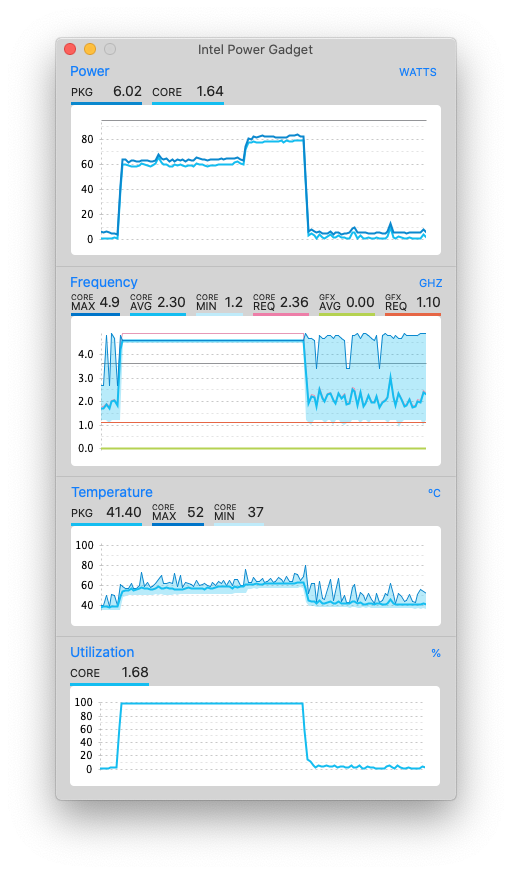
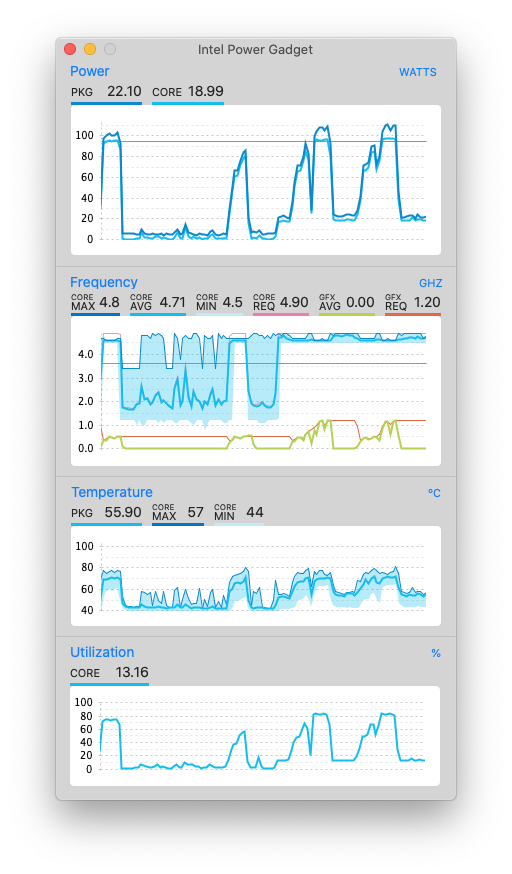
Relase 1.2.0

diff --git a/README.md b/README.md
@@ -15,6 +15,13 @@ Verified working with macOS version 10.15.5 (19F101) Catalina
 
 ## Updates log
 
+**Wakeup issues was still not fixed and resolved, wakened some applications freezed. such as Videopro/Hackintool/Safari play video/etc.**
+
+
+Date 2020-06-10 / Version 1.2.0
+
+Gigabyte GC-TITAN RIDGE supported, pls ref how to hard-flash BIOS.
+
 Date 2020-06-03 / Version 1.1.0
 
 Fixed wakeup issues some applications was freeze.
@@ -117,7 +124,7 @@ Based on F9g version.
 	- IO Ports
 		- Initial Display Output → **PCIe 1 Slot**
 		- Internal Graphics → **Enabled**
-		- DVMT Pre-Allocated → **64M**
+		- DVMT Pre-Allocated → **128M**
 		- DVMT Total-Gfx Mem → **256M**
 		- Aperture Size → **256M**
 		- Audio Controller → **Enabled**
@@ -184,6 +191,7 @@ Please [report and track](https://github.com/BenjaminX/Hackintosh-Gigabyte-Z390M
 ## Reference
 * [https://github.com/iGuan7u/OpenCore-Gigabyte-Z390M-Gaming](https://github.com/iGuan7u/OpenCore-Gigabyte-Z390M-Gaming)
 * [https://github.com/wellsgz/Opencore-Gigabyte-Z390M-Gaming-Hackintosh](https://github.com/wellsgz/Opencore-Gigabyte-Z390M-Gaming-Hackintosh)
+* [https://www.tonymacx86.com/threads/gigabyte-z390-m-gaming-build-with-working-nvram.291193/](https://www.tonymacx86.com/threads/gigabyte-z390-m-gaming-build-with-working-nvram.291193/)
 * [https://dortania.github.io/OpenCore-Desktop-Guide/](https://dortania.github.io/OpenCore-Desktop-Guide/)
 * [https://dortania.github.io/Getting-Started-With-ACPI/](https://dortania.github.io/Getting-Started-With-ACPI/)
 
@@ -192,8 +200,9 @@ Please [report and track](https://github.com/BenjaminX/Hackintosh-Gigabyte-Z390M
 ![Display](https://github.com/BenjaminX/Hackintosh-Gigabyte-Z390M-GAMING/blob/master/Tips/Display.png?raw=true)
 ![H264H265](https://github.com/BenjaminX/Hackintosh-Gigabyte-Z390M-GAMING/blob/master/Tips/H264H265.png?raw=true)
 ![SSDSpeed](https://github.com/BenjaminX/Hackintosh-Gigabyte-Z390M-GAMING/blob/master/Tips/SSDSpeed.png?raw=true)
-![CPUSpeed](https://github.com/BenjaminX/Hackintosh-Gigabyte-Z390M-GAMING/blob/master/Tips/intelpower.png?raw=true)
-
+![IntelPower](https://github.com/BenjaminX/Hackintosh-Gigabyte-Z390M-GAMING/blob/master/Tips/intelpower.png?raw=true)
+![TB3](https://github.com/BenjaminX/Hackintosh-Gigabyte-Z390M-GAMING/blob/master/Tips/tb3.png?raw=true)
+![TB3PCI](https://github.com/BenjaminX/Hackintosh-Gigabyte-Z390M-GAMING/blob/master/Tips/tb3pci.png?raw=true)
 
 
 
